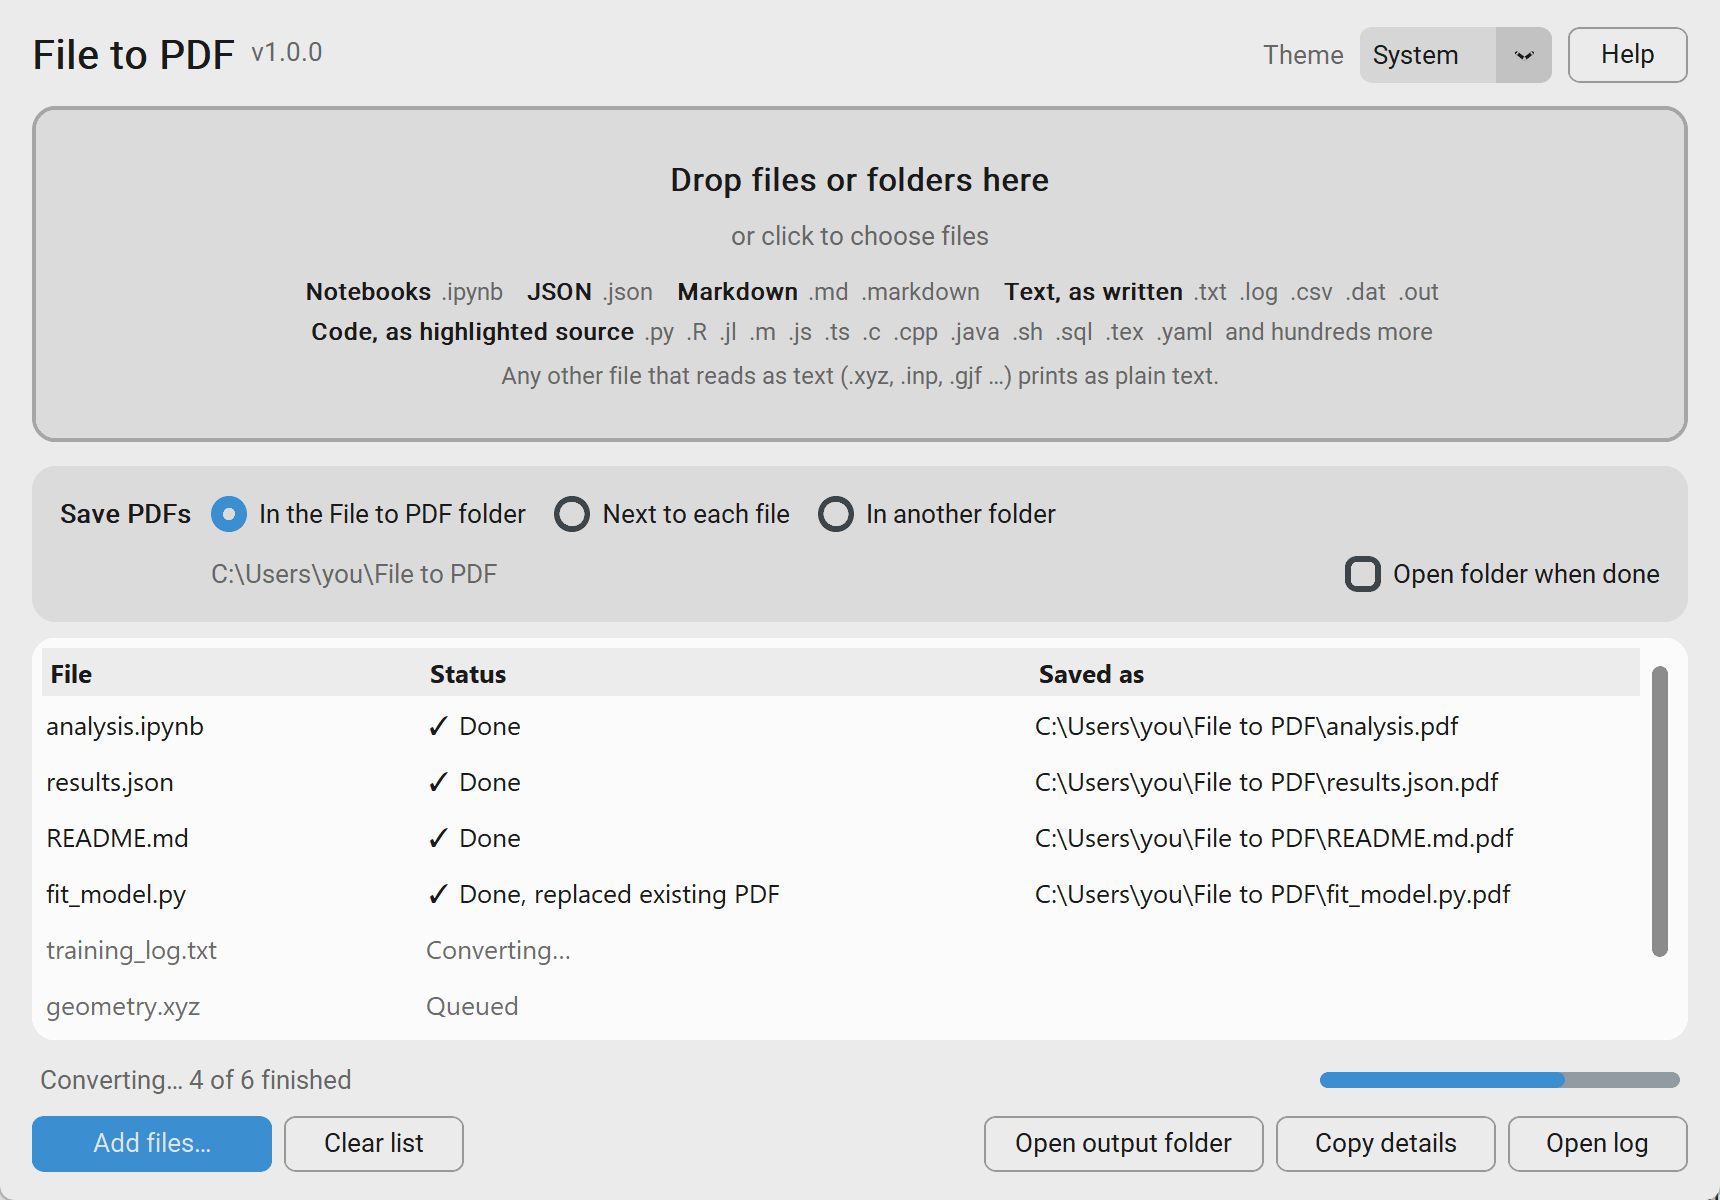
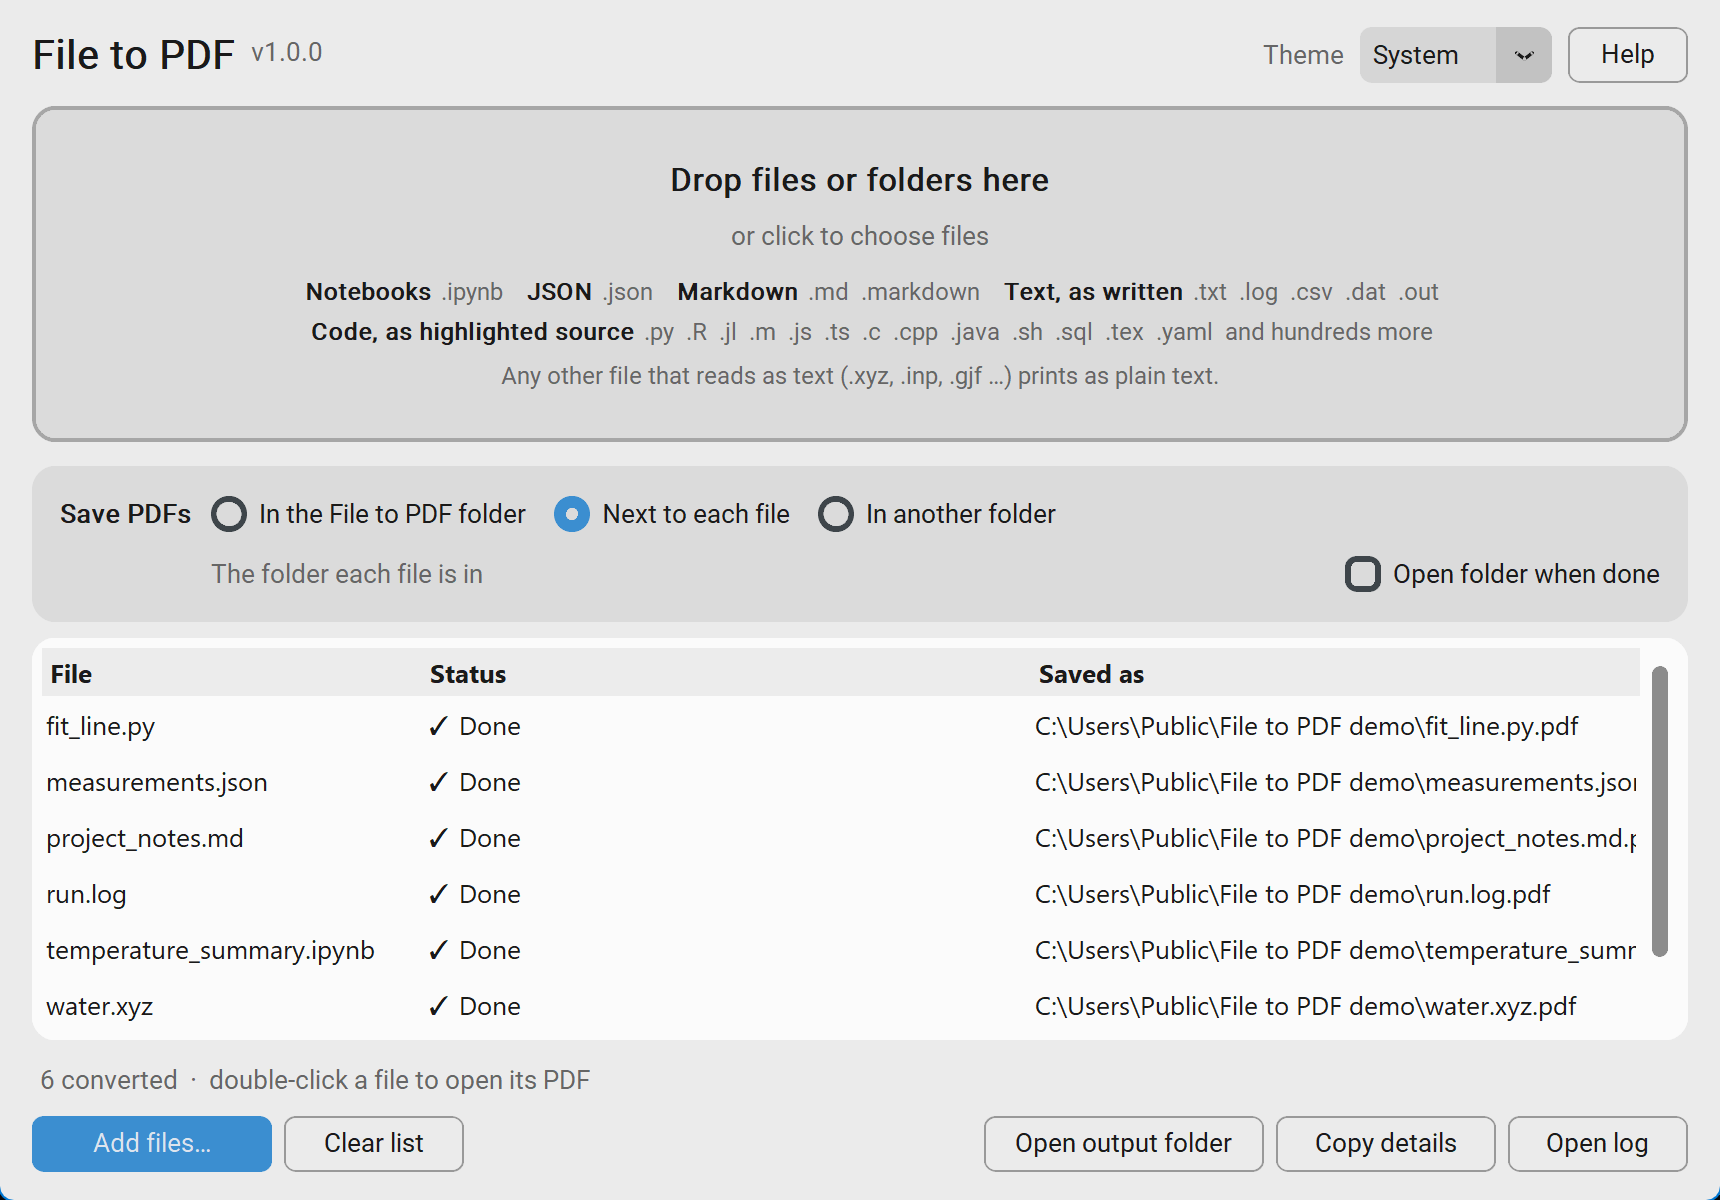
Replace the staged screenshot with one of a real conversion

diff --git a/README.md b/README.md
@@ -8,7 +8,7 @@ on Windows. Drop them on the window, or convert whole folders from the
 command line.**
 
 <p align="center">
-  <img src="docs/window.png" width="860" alt="The File to PDF window. At the top, a drop area lists the file types that convert: notebooks, JSON, Markdown, text and code. Below it, options for where PDFs are saved. The list shows six files: four marked done with the path of each PDF, one converting and one queued, with a progress bar reading 4 of 6 finished.">
+  <img src="docs/window.png" width="860" alt="The File to PDF window after converting a folder. At the top, a drop area lists the file types that convert: notebooks, JSON, Markdown, text and code. Below it, Next to each file is selected as where to save PDFs. The list shows six files, a notebook, a JSON file, a Markdown file, a Python script, a log and an XYZ file, each marked done with the path of its PDF, and the line below reads 6 converted.">
 </p>
 
 ## Why it exists
